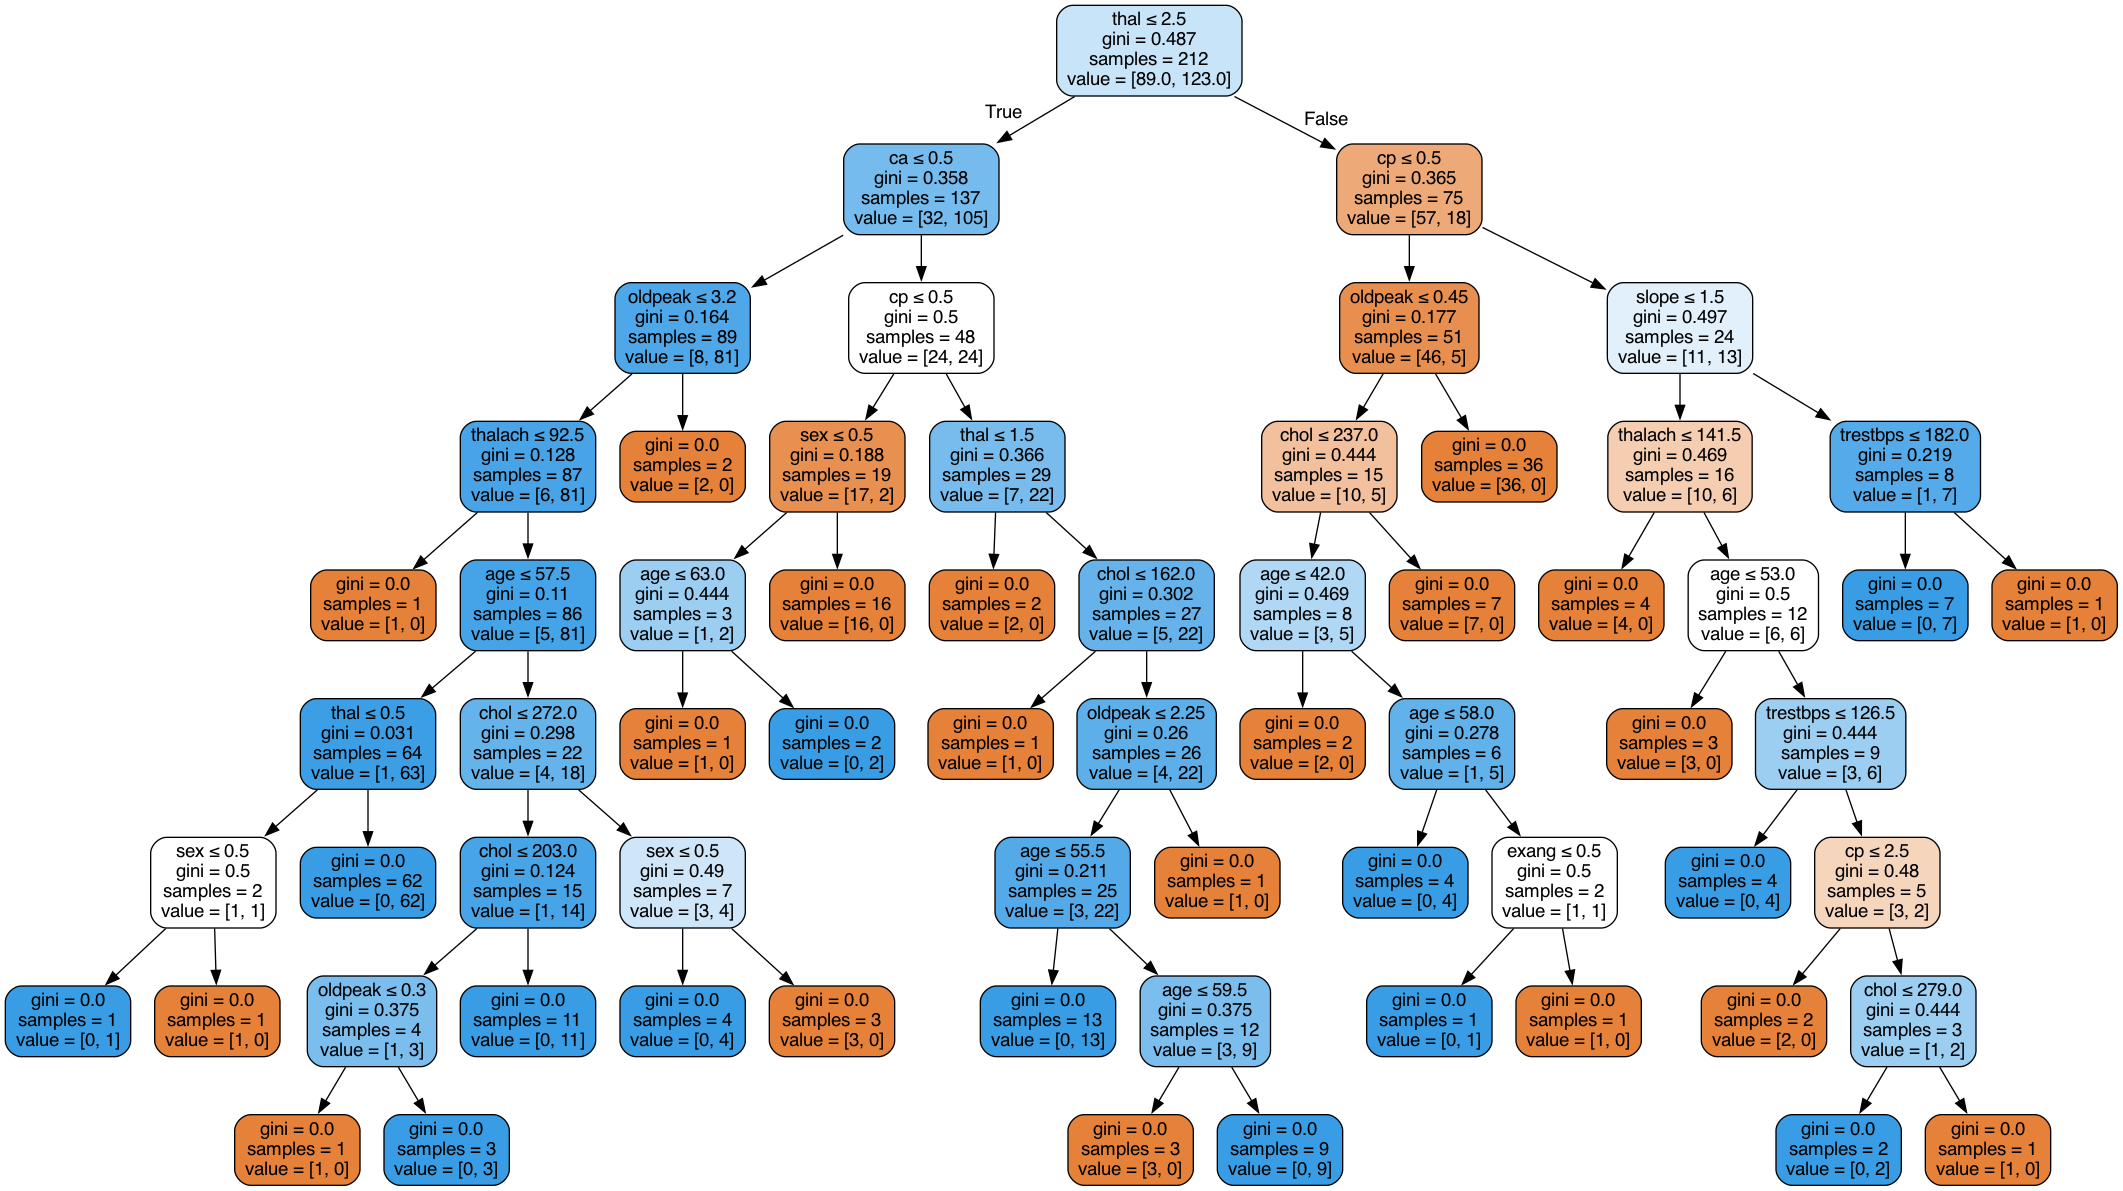
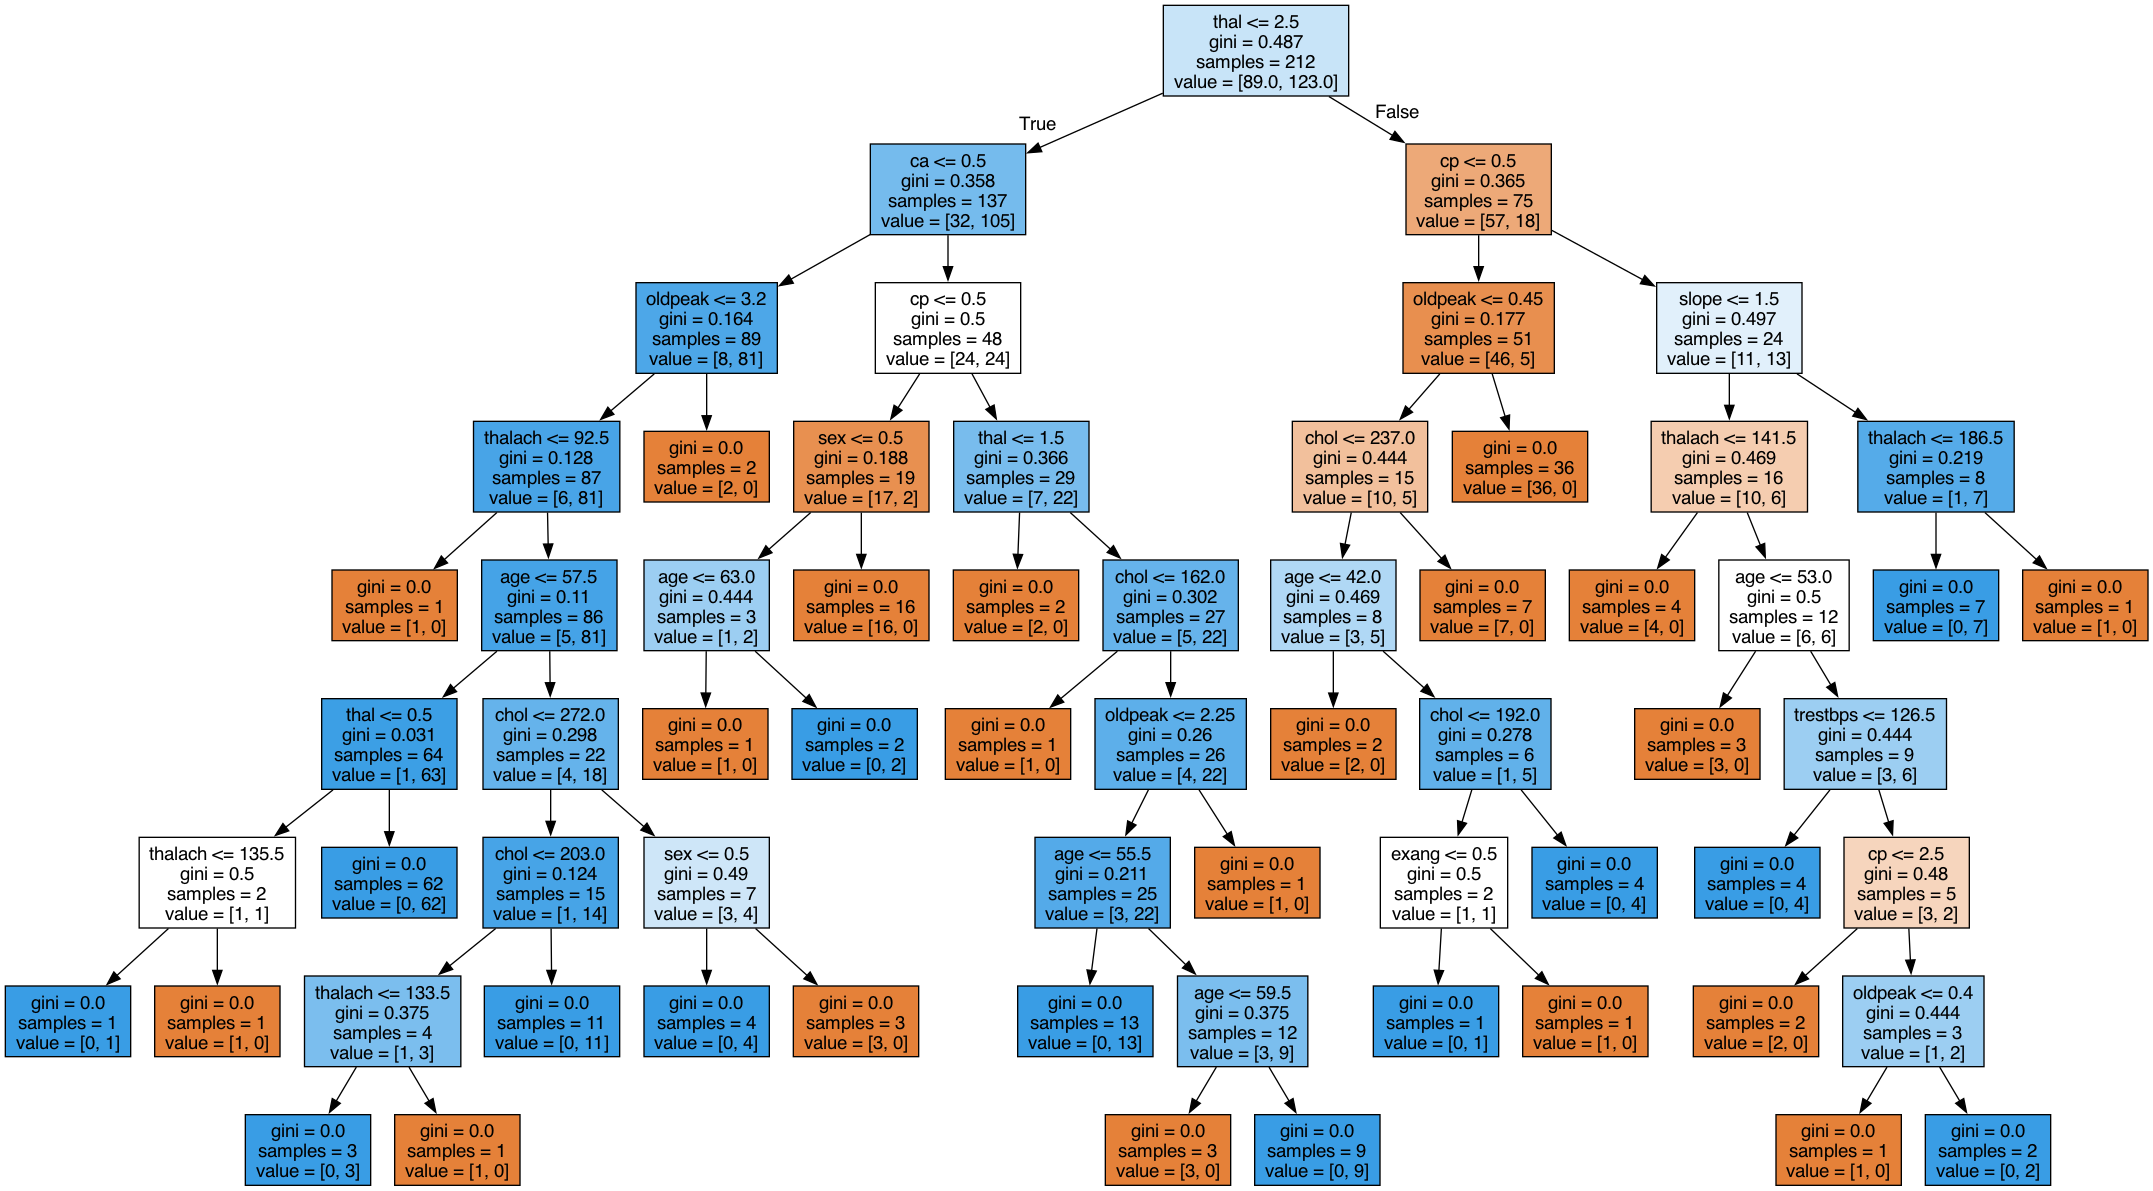
Random Forest Classifier yöntemini öğrendim

Changed region(s): [[0.0, 0.0, 1.0, 1.0], [0.3731, 0.0932, 0.4974, 0.3107]]

diff --git a/classification/randomForestClassifier.py b/classification/randomForestClassifier.py
@@ -1,31 +1,27 @@
-import pandas as pd
 import numpy as np
+import pandas as pd
 from sklearn.tree import DecisionTreeClassifier, export_graphviz
 import graphviz
+from sklearn.ensemble import RandomForestClassifier
 from sklearn.model_selection import train_test_split
 
 df = pd.read_csv('../Heart Attack Data Set.csv')
-print(df.head(3))
+df.head(3)
 
-y = df['target']
-x = df.drop("target", axis = 1)
+y = df["target"]
+x = df.drop("target", axis=1)
 
 tree = DecisionTreeClassifier()
 model = tree.fit(x,y)
+print(model.score(x,y))
 
-print(model.score(x, y))
-# train test split ile
-
-x_train,x_test, y_train, y_test = train_test_split(x,y, random_state=16, train_size=0.7 )
-
+x_train, x_test, y_train, y_test = train_test_split(x,y, random_state=16, train_size=0.7)
 tree = DecisionTreeClassifier()
 model = tree.fit(x_train, y_train)
-print(model.score(x_test, y_test))
-
-#train test split yokkken 1 çıkmıştı, kullandıktan sonra 0.80.. çıktı, yani model aşırı öğrenmeye maruz kalmış çıkarımını yapabiliriz
+print(model.score(x_test,y_test))
 
 denemex = [[31,1,2,130,240,0,0,150,0,2,0,0,2]]
-deneme = pd.DataFrame(denemex, columns=x.columns)
+deneme = pd.DataFrame(denemex, columns = x.columns)
 prediction = model.predict(deneme)
 print(prediction)
 
@@ -33,6 +29,13 @@ dot = export_graphviz(model, feature_names=x.columns, filled=True)
 gorsel = graphviz.Source(dot)
 gorsel.render("tree", format="png", view=True)
 
+
+forest = RandomForestClassifier()
+model = forest.fit(x_train, y_train)
+print(model.score(x,y))
+
+forest = RandomForestClassifier(n_estimators=200, max_depth=4 ) #n_estimators ağaç sayısı
+print(model.score(x_test, y_test))
 
 
 
